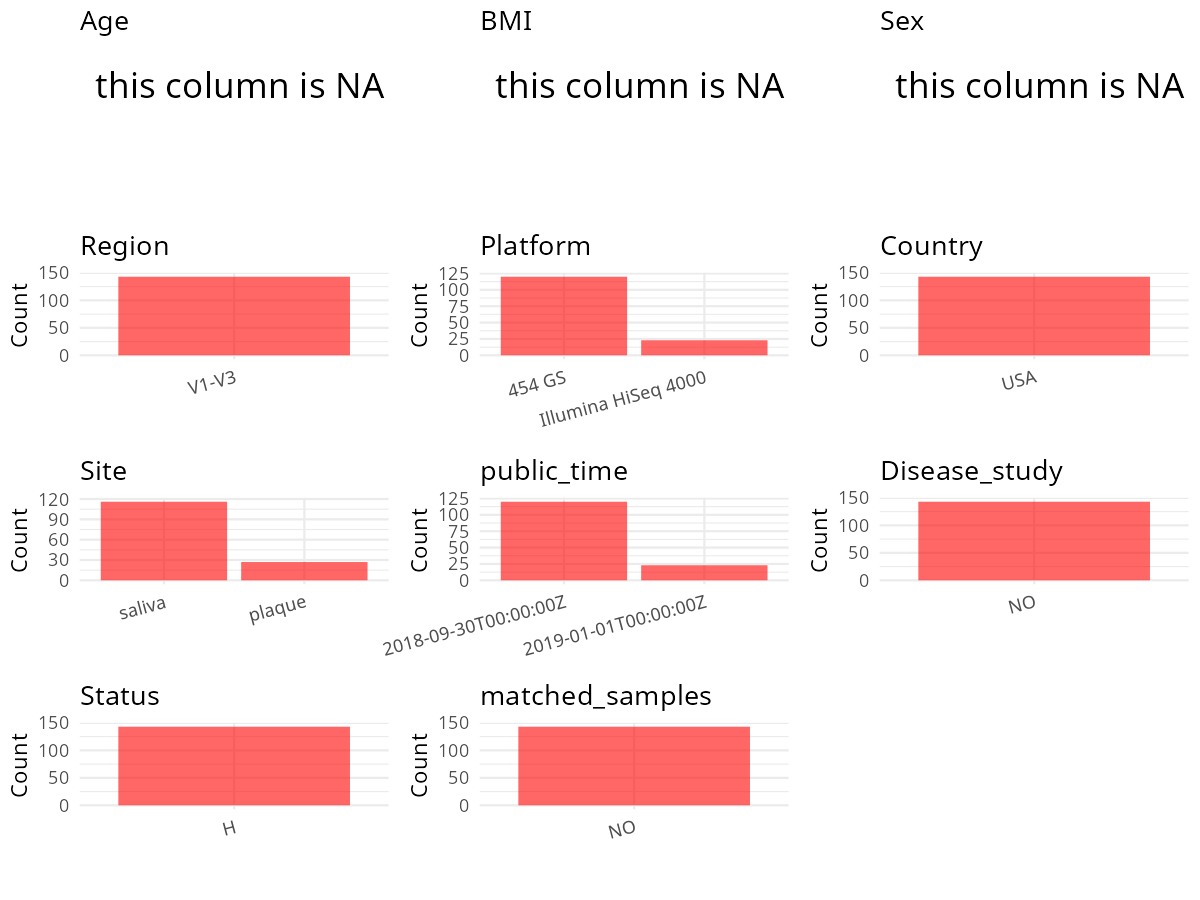
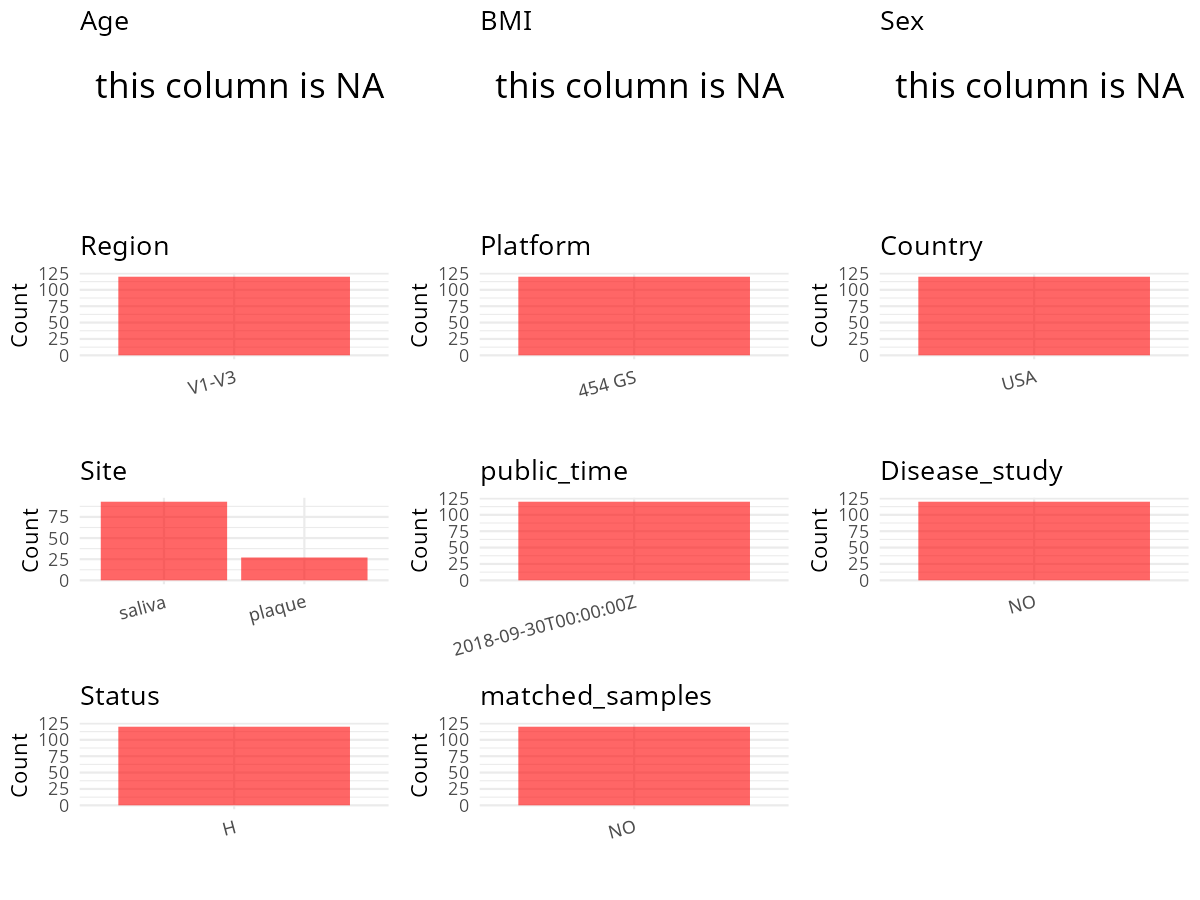
upload the project by hubingyue

diff --git a/data/projects/PRJNA448135/metadata_curation.md b/data/projects/PRJNA448135/metadata_curation.md
@@ -143,13 +143,13 @@ metadata$matched_samples <- "NO"
 print(paste("Number of unique runs:", length(unique(metadata$Run))))
 ```
 
-    ## [1] "Number of unique runs: 143"
+    ## [1] "Number of unique runs: 120"
 
 ``` r
 print(paste("Number of unique sample names:", length(unique(metadata$sample_name))))
 ```
 
-    ## [1] "Number of unique sample names: 128"
+    ## [1] "Number of unique sample names: 120"
 
 # Step 5: Visualize the Metadata
 
